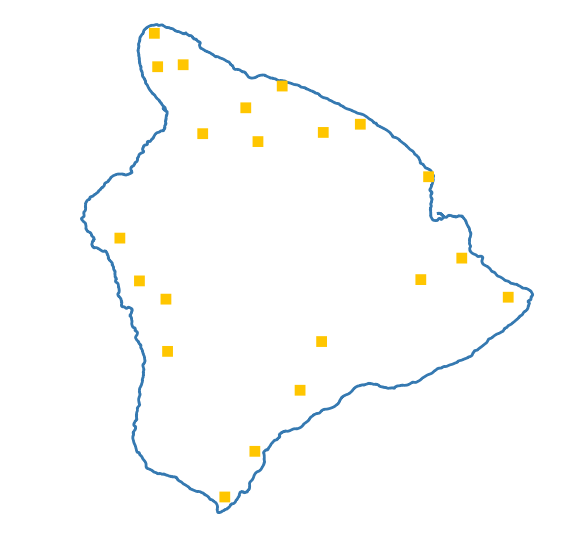
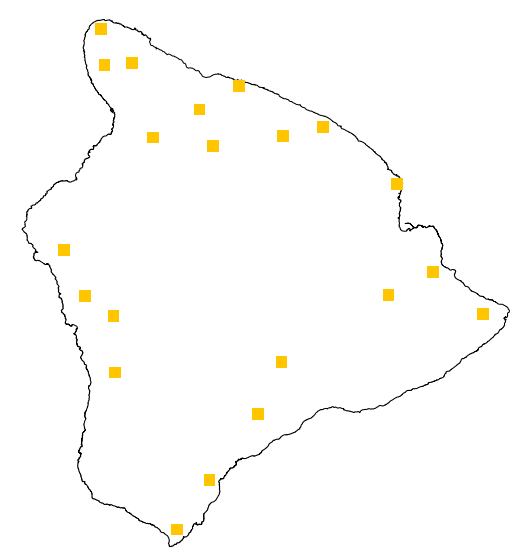
files

diff --git a/index.html b/index.html
@@ -56,9 +56,9 @@
         <div id="header">Header</div>
 
         <div class="content">
-            <div class="image">
+            <!--<div class="image">
                 <img src = "ParkerRanch.jpeg">
-            </div>
+            </div>-->
             
             <div class="statewide">
                 <p id="subcategory">Statewide Conditions</p>
@@ -114,7 +114,7 @@
                       <input type="radio" name="bn" value="2" id="form-evapo"/> Evapotranspiration
                     </form>
                       <div id="nodataHI">
-                        <img id="a" src="./islands/no_data_hi.png" usemap="#HI">
+                        <img id="a" src="./islands/HIisl.png" usemap="#HI">
 
                         <map name="HI">
                             <area shape="rect" coords="209,22,220,31" alt="a" href="./imagemap.html">
@@ -142,7 +142,7 @@
                         <input type="radio" name="bn" value="2"/> Evapotranspiration
                     </form>
                       <div id="nodataMaui">
-                        <img id="a" src="./islands/no_data_hi.png" usemap="#HI">
+                        <img id="a" src="./islands/maui.png" usemap="#HI">
 
                         <map name="HI">
                             <area shape="rect" coords="257,34,275,51" alt="a" href="./imagemap.html">
@@ -170,7 +170,7 @@
                         <input type="radio" name="bn" value="2"/> Evapotranspiration
                     </form>
                       <div id="nodataLanai">
-                        <img id="a" src="./islands/no_data_hi.png" usemap="#HI">
+                        <img id="a" style="width:20%; height:auto" src="./islands/lanai.png" usemap="#HI">
 
                         <map name="HI">
                             <area shape="rect" coords="257,34,275,51" alt="a" href="./imagemap.html">
@@ -192,13 +192,13 @@
                 </div>
 
                 <div id="showMolokai" class="myDiv">
-                    <img src="./islands/molokai.png" alt="Moloka‘i"/>
+                    <img style="width:50%; height:auto" src="./islands/molokai.png" alt="Moloka‘i"/>
                 </div>
                 <div id="showOahu" class="myDiv">
-                    <img src="./islands/oahu.png" alt="O‘ahu"/>
+                    <img style="width:30%; height:auto" src="./islands/oahu.png" alt="O‘ahu"/>
                 </div>
                 <div id="showKauai" class="myDiv">
-                    <img src="./islands/kauai.png" alt="Kauai"/>
+                    <img style="width:30%; height:auto" src="./islands/kauai.png" alt="Kauai"/>
                 </div>
 
             </div>

diff --git a/footer.html b/footer.html
@@ -7,12 +7,7 @@
     </head>
     <body>
         <div class="footer">
-            <div class="footercontent">
-                  <a href="#">Contact Us</a>
-                  <a href="#">Drought.gov</a>
-              <hr>
-                  <p>Disclaimer: We cannot be liable for omissions and inaccuracies. Please do not sue us if we are wrong.</p>
-            </div>
+            
             <div id="main">
                 <img id="NOAA" src="./logos/NOAA.png">
                 <img id="NIDIS" src="./logos/NIDIS.jpeg">
@@ -23,6 +18,12 @@
                 <img id="PDKE" src="./logos/PDKE.jpg">
                 <img id="HCDP" src="./logos/HCDP.png">
             </div>
+            <div class="footercontent">
+                <a href="#">Contact Us</a>
+                <a href="#">Drought.gov</a>
+            <hr>
+                <p>Disclaimer: We cannot be liable for omissions and inaccuracies. Please do not sue us if we are wrong.</p>
+          </div>
         </div>
     </body>
 </html>

diff --git a/footer.css b/footer.css
@@ -54,13 +54,15 @@ body {
 }
 
 #main {
-    padding-top: 10px;
+    padding-top: 20px;
 }
 
 #partners{
     padding-top: 10px;
+    padding-bottom: 20px;
 }
 
 #partners p{
     font-size: 16px;
 }
+
